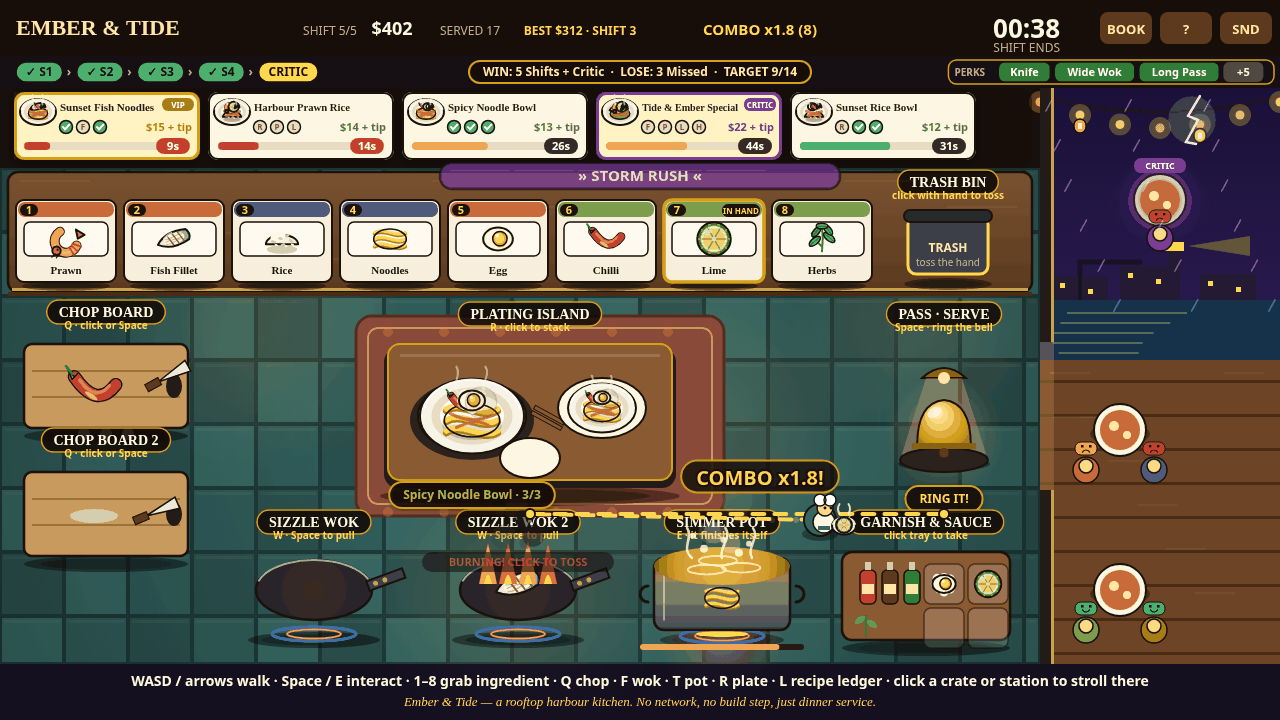
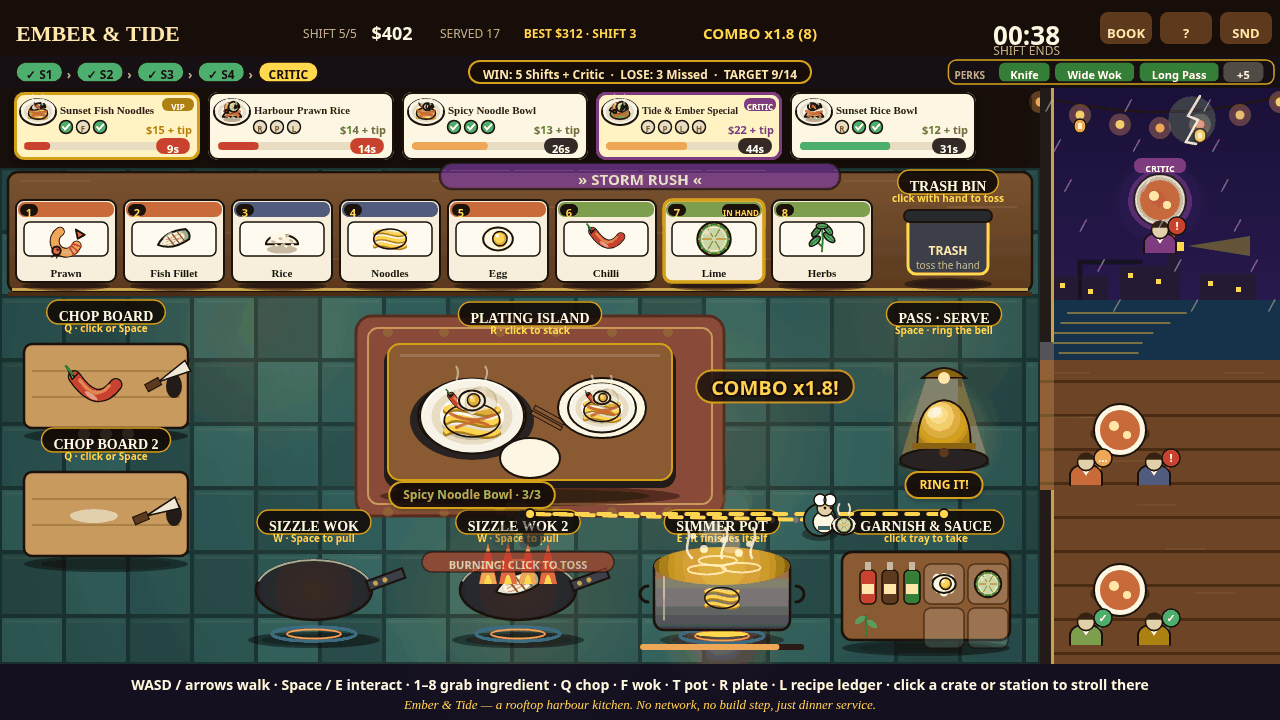
Polish: float placement, red BURNING pill, higher RING IT, expressive diners

diff --git a/game/src/render/diners.js b/game/src/render/diners.js
@@ -4,27 +4,50 @@
 
 import { roundRectPath } from '../core/util.js';
 
+// Expressive top-down terrace diners: broad shoulders, a head with a
+// hair cap, and a round mood bubble with a bold glyph — readable even
+// at thumbnail scale. (x, y) is the seat centre; the head sits just
+// above the shoulders so the diner reads as seated at the table.
+const MOODS = {
+  happy: { color: '#4caf6d', glyph: '✓' },
+  impatient: { color: '#e8442e', glyph: '!' },
+  waiting: { color: '#f2a54a', glyph: '…' },
+};
+
 export function drawDiner(ctx, x, y, shirt, mood) {
+  const m = MOODS[mood] || MOODS.waiting;
+  // Shoulders: broad rounded dome in the shirt colour, ink outline,
+  // with a small cream collar V at the throat.
   ctx.fillStyle = shirt;
-  ctx.beginPath(); ctx.arc(x, y, 13, 0, Math.PI * 2); ctx.fill();
-  ctx.strokeStyle = '#1a120b'; ctx.lineWidth = 1.5;
-  ctx.beginPath(); ctx.arc(x, y, 13, 0, Math.PI * 2); ctx.stroke();
+  ctx.beginPath(); ctx.ellipse(x, y + 5, 16, 11, 0, Math.PI, 0); ctx.fill();
+  ctx.strokeStyle = '#1a120b'; ctx.lineWidth = 2;
+  ctx.beginPath(); ctx.ellipse(x, y + 5, 16, 11, 0, Math.PI, 0); ctx.stroke();
+  ctx.fillStyle = shirt;
+  ctx.fillRect(x - 16, y + 4, 32, 11);
+  ctx.strokeStyle = '#1a120b'; ctx.lineWidth = 2;
+  ctx.beginPath(); ctx.moveTo(x - 16, y + 4); ctx.lineTo(x - 16, y + 15); ctx.moveTo(x + 16, y + 4); ctx.lineTo(x + 16, y + 15); ctx.stroke();
+  ctx.strokeStyle = '#fdf6e3'; ctx.lineWidth = 2;
+  ctx.beginPath(); ctx.moveTo(x - 4, y - 2); ctx.lineTo(x, y + 4); ctx.lineTo(x + 4, y - 2); ctx.stroke();
+  // Head: skin circle with a dark hair cap over the top half.
   ctx.fillStyle = '#f2c89a';
-  ctx.beginPath(); ctx.arc(x, y - 4, 7, 0, Math.PI * 2); ctx.fill();
+  ctx.beginPath(); ctx.arc(x, y - 8, 8.5, 0, Math.PI * 2); ctx.fill();
   ctx.strokeStyle = '#1a120b'; ctx.lineWidth = 1.5;
-  ctx.beginPath(); ctx.arc(x, y - 4, 7, 0, Math.PI * 2); ctx.stroke();
-  ctx.fillStyle = mood === 'happy' ? '#4caf6d' : mood === 'impatient' ? '#e8442e' : '#f2a54a';
-  roundRectPath(ctx, x - 11, y - 28, 22, 13, 6); ctx.fill();
-  ctx.strokeStyle = '#1a120b'; ctx.lineWidth = 1;
-  roundRectPath(ctx, x - 11, y - 28, 22, 13, 6); ctx.stroke();
-  ctx.fillStyle = '#1a120b';
-  ctx.fillRect(x - 5, y - 25, 2.5, 2.5);
-  ctx.fillRect(x + 3, y - 25, 2.5, 2.5);
-  ctx.strokeStyle = '#1a120b'; ctx.lineWidth = 1.2;
-  ctx.beginPath();
-  if (mood === 'happy') ctx.arc(x, y - 22, 4, 0.15 * Math.PI, 0.85 * Math.PI);
-  else ctx.arc(x, y - 16, 4, 1.15 * Math.PI, 1.85 * Math.PI);
-  ctx.stroke();
+  ctx.beginPath(); ctx.arc(x, y - 8, 8.5, 0, Math.PI * 2); ctx.stroke();
+  ctx.fillStyle = '#3a2418';
+  ctx.beginPath(); ctx.arc(x, y - 9, 8.5, Math.PI * 1.05, Math.PI * 1.95); ctx.fill();
+  // Mood bubble: round, to the side of the head so it never covers
+  // the table above, with a bold white glyph and a tiny tail.
+  const bx = x + 17, by = y - 12;
+  ctx.fillStyle = m.color;
+  ctx.beginPath(); ctx.moveTo(bx - 8, by + 6); ctx.lineTo(bx - 2, by + 12); ctx.lineTo(bx - 3, by + 4); ctx.closePath(); ctx.fill();
+  ctx.beginPath(); ctx.arc(bx, by, 9, 0, Math.PI * 2); ctx.fill();
+  ctx.strokeStyle = '#1a120b'; ctx.lineWidth = 1.5;
+  ctx.beginPath(); ctx.arc(bx, by, 9, 0, Math.PI * 2); ctx.stroke();
+  ctx.fillStyle = '#ffffff';
+  ctx.font = 'bold 11px system-ui, sans-serif';
+  ctx.textAlign = 'center';
+  ctx.textBaseline = 'middle';
+  ctx.fillText(m.glyph, bx, by + 0.5);
 }
 
 export function drawTable(ctx, x, y) {

diff --git a/game/src/core/shots.js b/game/src/core/shots.js
@@ -50,8 +50,9 @@ export function setupShot(name) {
     g.chef = chef(300, 480, 'up', [{ x: 300, y: 502, t: 0.3 }, { x: 300, y: 524, t: 0.6 }]);
     g.upgrades = { knives: true, wok: true, pass: false, calm: false, bell: false, pot: false };
     g.relics = { ember: true, star: true };
-    // PERFECT float in the open corridor above wok 2, clear of its tag.
-    g.floats = [{ x: 518, y: 520, text: '+24 PERFECT!', color: '#ffd94d', t: 0.2 }];
+    // PERFECT float in the open floor corridor between island and bell:
+    // clear of the island, the bell, the dish label and the route line.
+    g.floats = [{ x: 775, y: 390, text: '+24 PERFECT!', color: '#ffd94d', t: 0.2 }];
     g.toast = null;
     g.shot = 'cover';
     return g;
@@ -97,8 +98,9 @@ export function setupShot(name) {
     g.chef = chef(820, 520, 'right', [{ x: 796, y: 520, t: 0.3 }, { x: 772, y: 520, t: 0.6 }]);
     g.upgrades = { knives: true, wok: true, pass: true, calm: true, bell: true, pot: false };
     g.relics = { ember: true, lantern: true, star: true };
-    // COMBO float in the open corridor above the bottom row.
-    g.floats = [{ x: 760, y: 480, text: 'COMBO x1.8!', color: '#ffd94d', t: 0.1 }];
+    // COMBO float in the same open corridor: clear of the island, the
+    // bell, the wok/pot tags below and the chef's route line.
+    g.floats = [{ x: 775, y: 390, text: 'COMBO x1.8!', color: '#ffd94d', t: 0.1 }];
     g.toast = null;
     g.shot = 'rush';
     return g;

diff --git a/game/src/render/stations.js b/game/src/render/stations.js
@@ -63,12 +63,15 @@ export function drawWokStation(ctx, g, now, slot) {
       if (w.anim > 0.6) drawFlameBurst(ctx, cx, r.y + 44, now);
     } else if (w.state === 'burning') {
       drawBurnFlames(ctx, cx, r.y + 44, now);
-      // Dark pill over the flames so the alarm always reads.
+      // Solid bright-red pill so the alarm pops on the dark teal
+      // floor, with crisp white bold text.
       const pulse = 0.8 + 0.2 * Math.sin(now * 8);
       ctx.save(); ctx.globalAlpha = pulse;
-      ctx.fillStyle = 'rgba(18,10,6,0.88)';
+      ctx.fillStyle = '#d92d20';
       roundRectPath(ctx, cx - 96, r.y + 12, 192, 20, 10); ctx.fill();
-      ctx.fillStyle = '#ff5a2e';
+      ctx.strokeStyle = '#1a120b'; ctx.lineWidth = 1.5;
+      roundRectPath(ctx, cx - 96, r.y + 12, 192, 20, 10); ctx.stroke();
+      ctx.fillStyle = '#ffffff';
       ctx.font = 'bold 11px system-ui, sans-serif';
       ctx.textAlign = 'center';
       ctx.fillText('BURNING! CLICK TO TOSS', cx, r.y + 26);

diff --git a/game/src/render/serve.js b/game/src/render/serve.js
@@ -104,5 +104,5 @@ export function drawBellStation(ctx, g, now) {
   ctx.fillStyle = '#5d3a1e';
   ctx.beginPath(); ctx.arc(0, 30, 5, 0, Math.PI * 2); ctx.fill();
   ctx.restore();
-  pillText(ctx, ready ? 'RING IT!' : 'Serve a full dish', cx, r.y + r.h - 14, 'bold 12px system-ui, sans-serif', ready ? '#ffd94d' : '#c9b48a');
+  pillText(ctx, ready ? 'RING IT!' : 'Serve a full dish', cx, r.y + r.h - 28, 'bold 12px system-ui, sans-serif', ready ? '#ffd94d' : '#c9b48a');
 }
